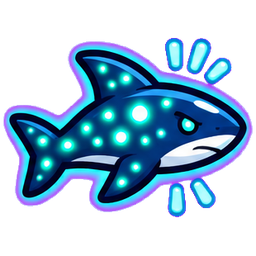
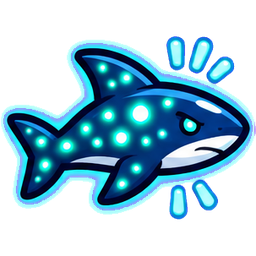
vault backup: 2026-11-24 07:47:44

diff --git a/MEGA BITE/UI/card_icons/cut_mutation_icons.py b/MEGA BITE/UI/card_icons/cut_mutation_icons.py
@@ -26,6 +26,23 @@ rgb = im.copy()
 aa = np.clip(a[..., None], 0.05, 1)
 rgb[band] = ((im - (1 - aa) * M) / aa)[band]
 rgb = np.clip(rgb, 0, 255)
+# 24 Nov: soft GLOWS (lanternshark, the tooth's gold ring) are see-through over magenta, so the 3 px band leaves a purple /
+# pink halo. Glow colours have little 'magenta part' (cyan: no red, gold: no blue), so near the background:
+# magenta share k = (min(R,B) - G) / 255, alpha = 1 - k, colour = un-mixed.
+near = (ndi.distance_transform_edt(fg) <= 18) & fg
+# a glow colour has red OR blue near 0 (cyan / gold), so 1 - alpha = min(R, B) / 255; only on magenta-tinted pixels
+# (green clearly below both red and blue), which leaves white, navy outlines and skin tones alone
+mn = np.minimum(im[..., 0], im[..., 2])
+tint = im[..., 1] < mn - 10
+glowCells = np.zeros(fg.shape, bool)   # only the 2 glow icons: the goblin shark's pink-peach skin must stay as drawn
+for (gr, gc) in [(2, 0), (2, 3)]:   # MutLantern, MutMegalodon
+	glowCells[int(gr * H / 3):int((gr + 1) * H / 3), int(gc * W / 5):int((gc + 1) * W / 5)] = True
+k = np.where(near & tint & glowCells, np.clip(mn / 255.0, 0, 1), 0)
+a2 = np.minimum(a, 1 - k)
+fix = k > 0
+aa2 = np.clip(a2[..., None], 0.05, 1)
+rgb[fix] = np.clip((im - (1 - aa2) * M) / aa2, 0, 255)[fix]
+a = a2
 out = np.dstack([rgb, a * 255]).astype(np.uint8)
 # components
 lab2, n2 = ndi.label(a > 0.5)
